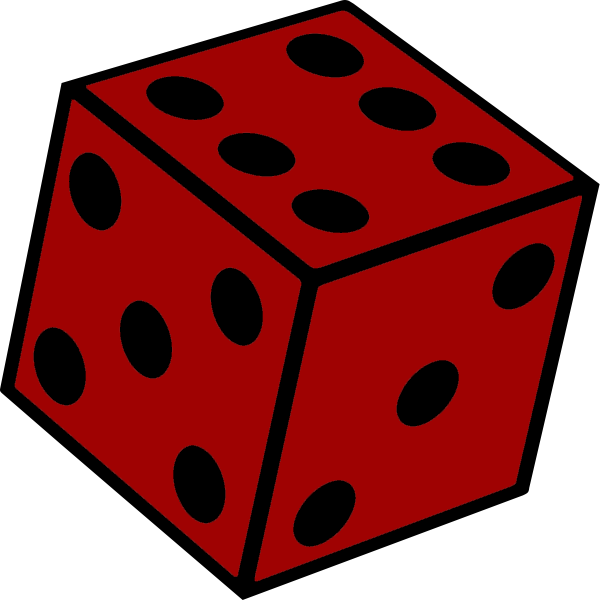
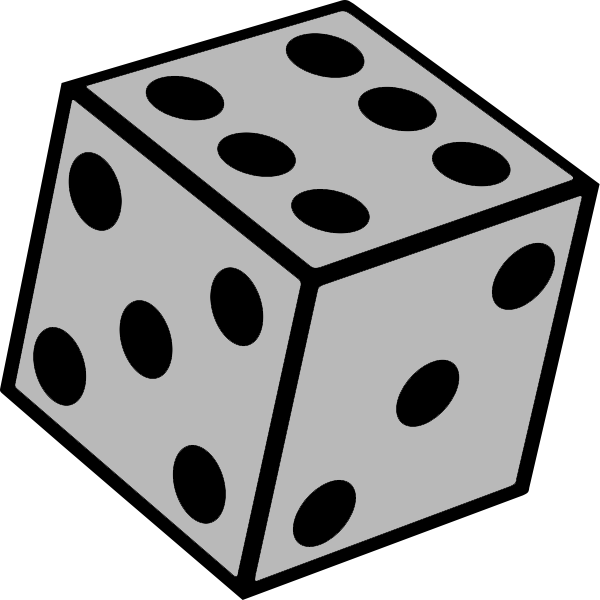
merge

diff --git a/Dedales/dedale.css b/Dedales/dedale.css
@@ -329,8 +329,8 @@ div.decompte_tresors {
 
 .sheet-sheettoggle[value*="2"] ~ *{
 	--charsheet-background: url(https://raw.githubusercontent.com/ctotone/JdR/main/Dedales/img/PJ_3.png);
-	--dice_background: url(https://raw.githubusercontent.com/ctotone/JdR/main/Dedales/img/6_dice.png);
-	--dice_background_hover: url(https://raw.githubusercontent.com/ctotone/JdR/main/Dedales/img/6_dice_hover.png);
+	--dice_background: url(https://raw.githubusercontent.com/ctotone/JdR/main/Dedales/img/6_dice_grey.png);
+	--dice_background_hover: url(https://raw.githubusercontent.com/ctotone/JdR/main/Dedales/img/6_dice.png);
 }
 
 .sheet-sheettoggle[value*="3"] ~ *{
